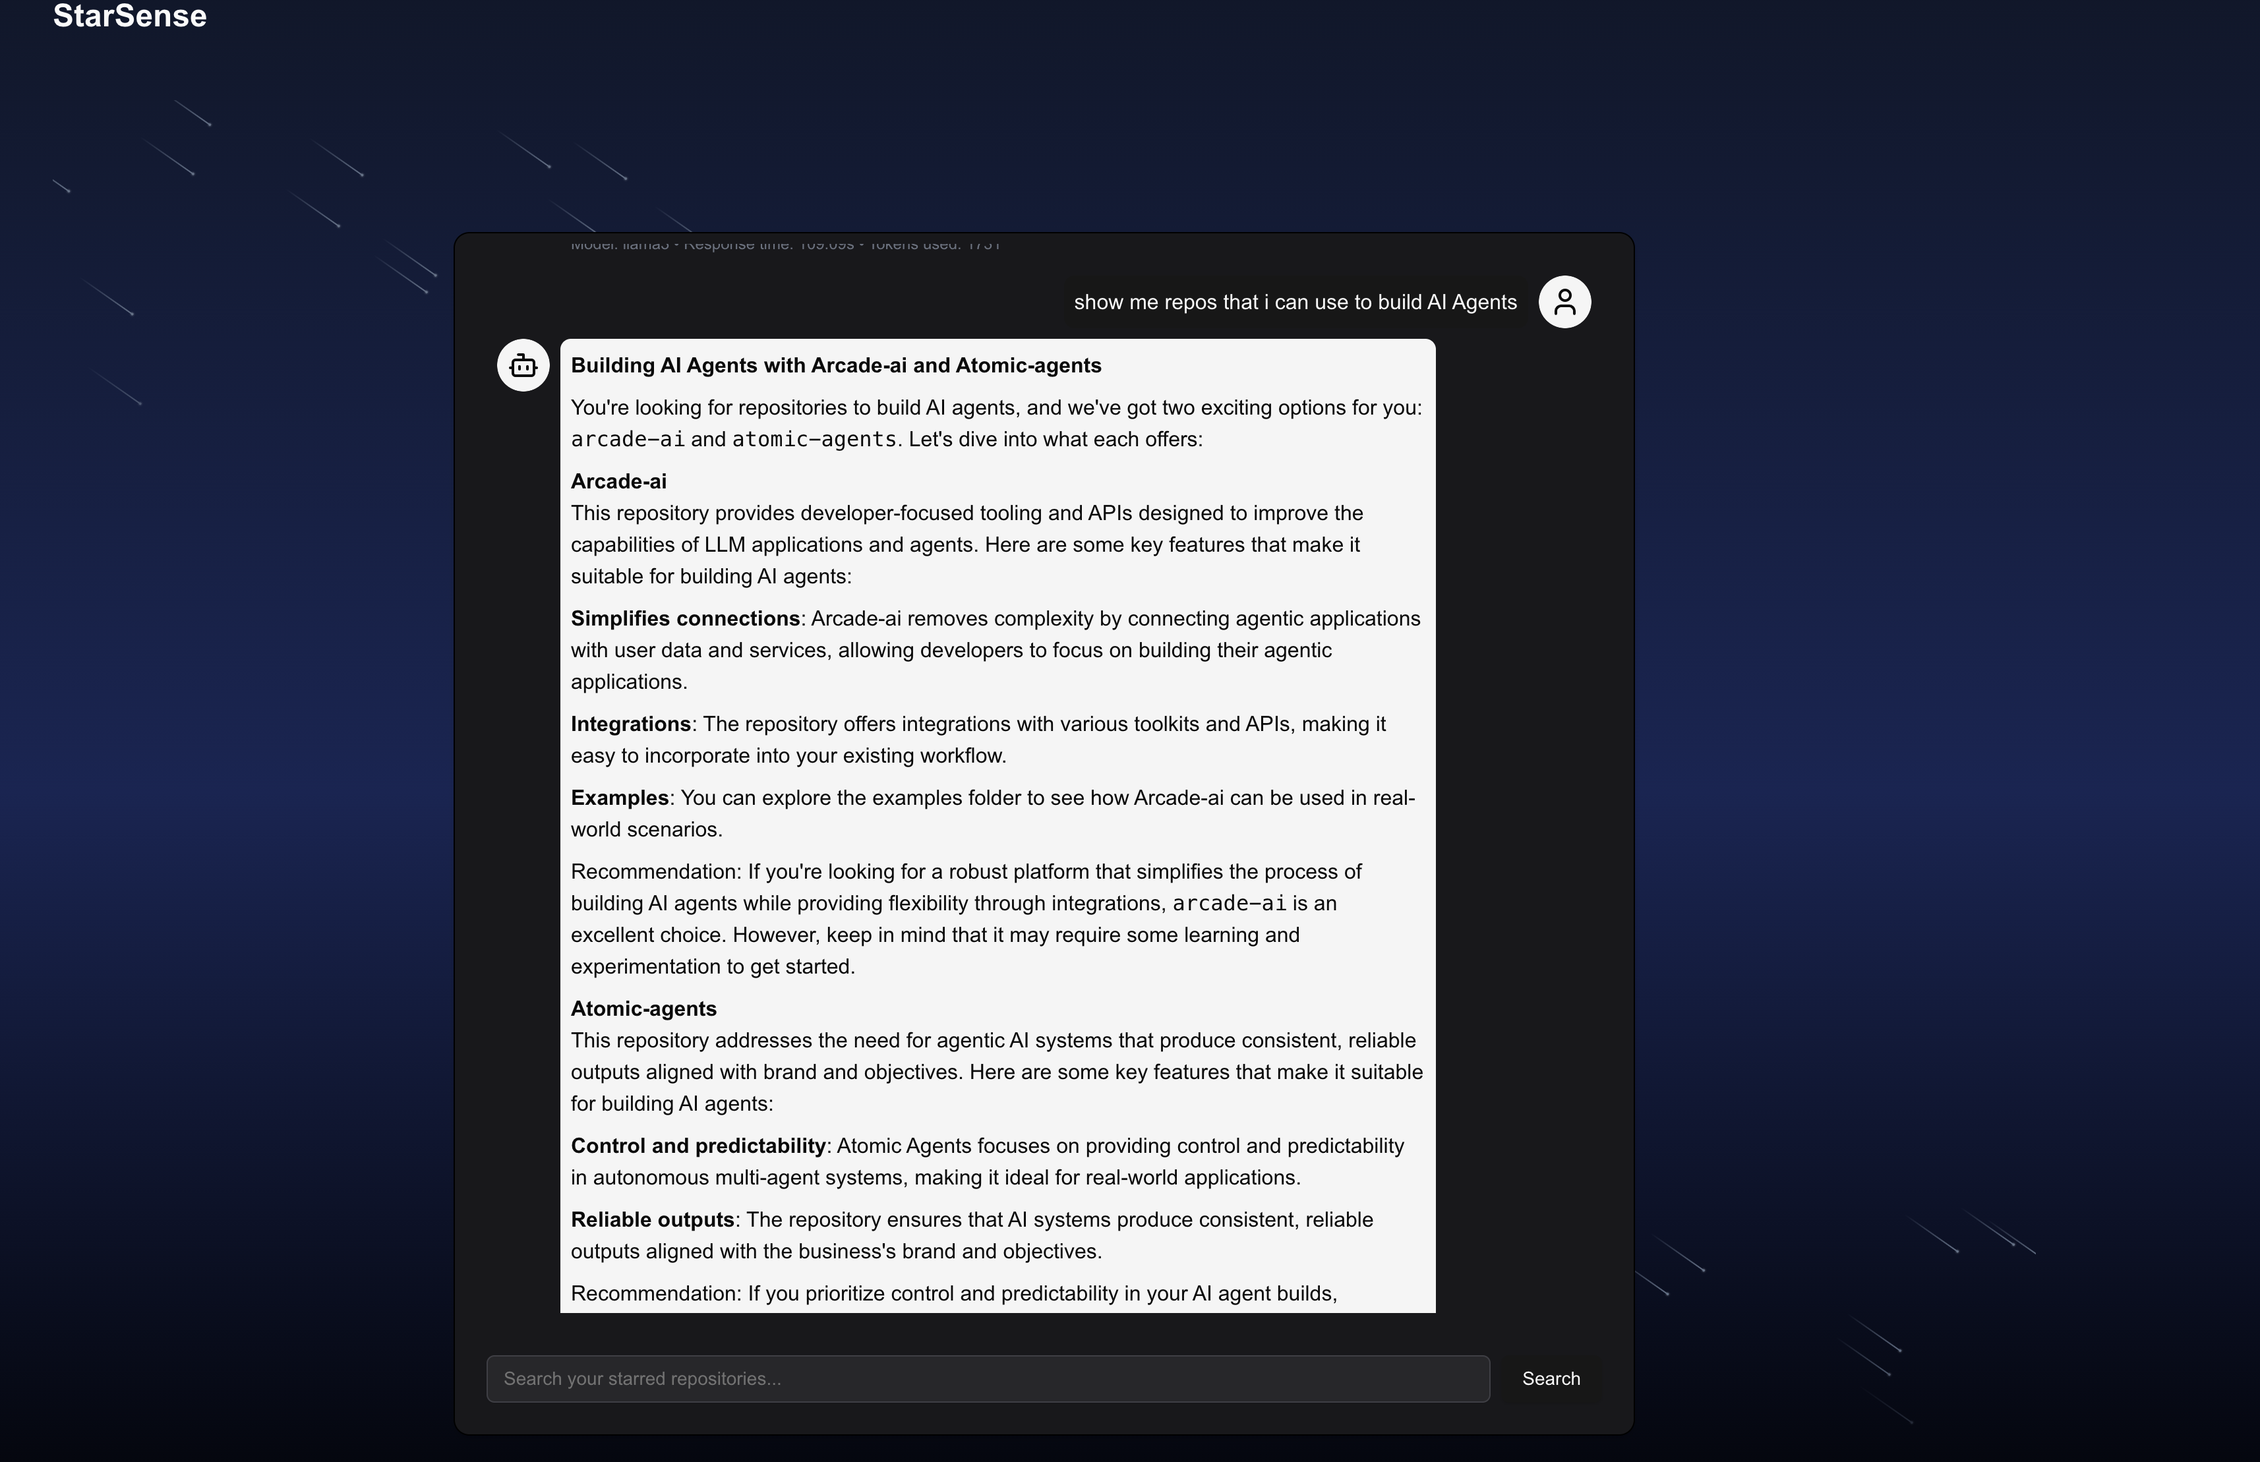
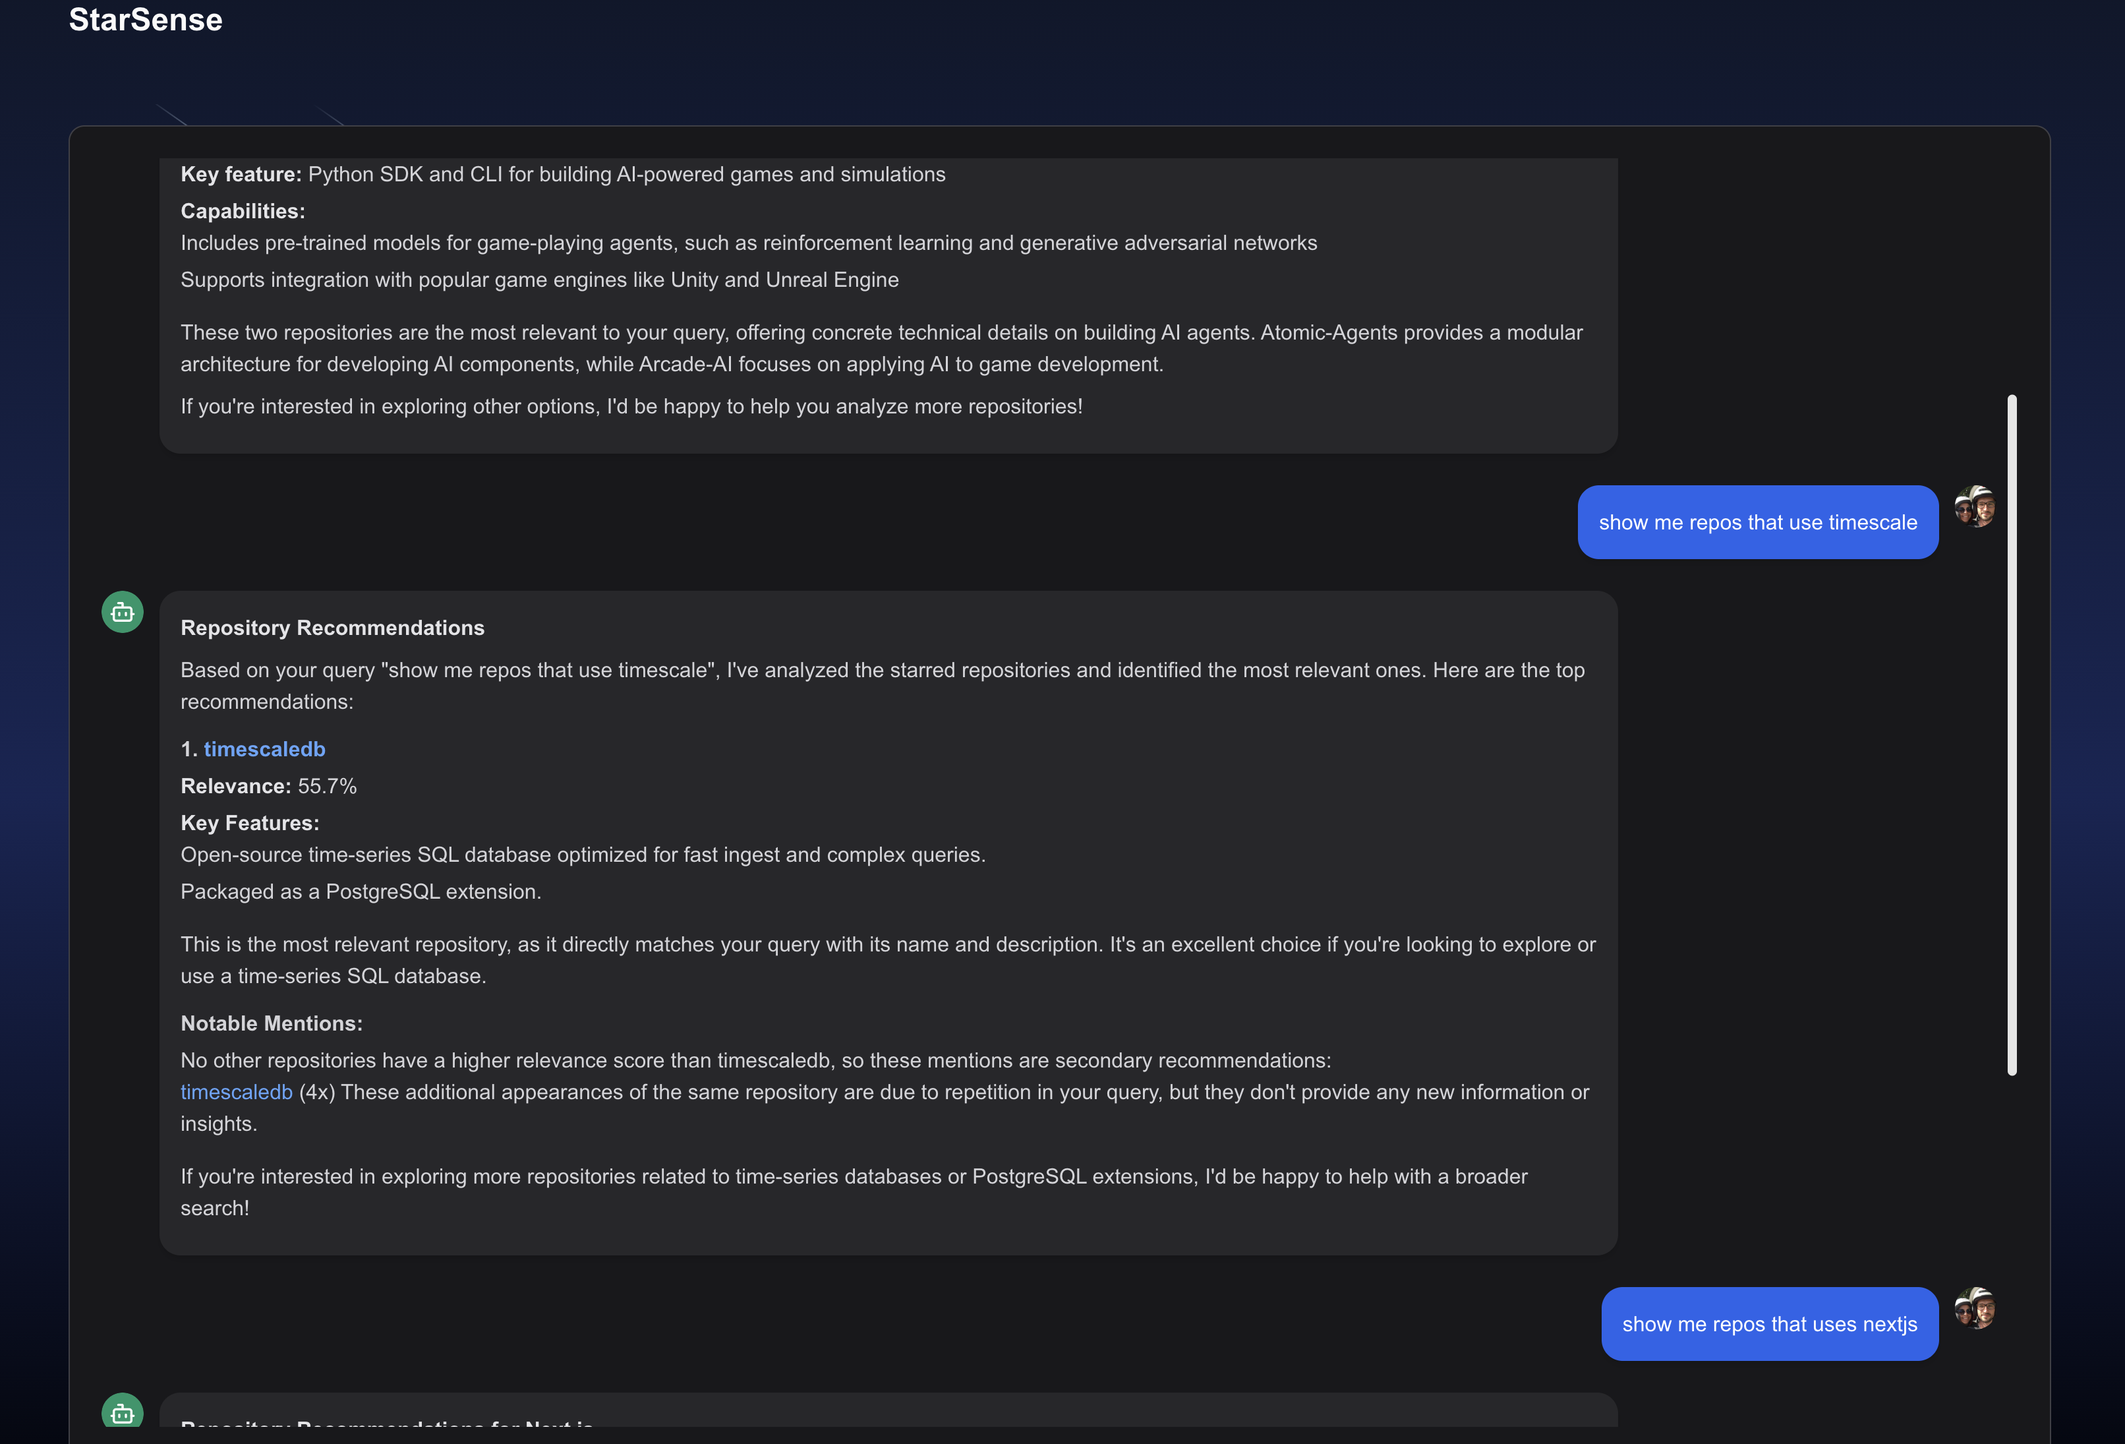
add environment example file, update chat page for user session, and refactor database query

diff --git a/web/app/chat/components/chat-window.tsx b/web/app/chat/components/chat-window.tsx
@@ -5,34 +5,34 @@ import { Button } from "@/components/ui/button";
 import { Card, CardContent, CardFooter } from "@/components/ui/card";
 import { Input } from "@/components/ui/input";
 import { ScrollArea } from "@/components/ui/scroll-area";
-import { Bot, User } from "lucide-react";
-import { useState } from "react";
+import { AvatarImage } from "@radix-ui/react-avatar";
+import { Bot, Loader2, Send, User } from "lucide-react";
+import { useEffect, useRef, useState } from "react";
 import ReactMarkdown from "react-markdown";
 
 type Message = {
   user?: string;
-  assistant?: {
-    message: {
-      assistant: string;
-    };
-    raw_response: {
-      model: string;
-      created_at: string;
-      total_duration: number;
-      prompt_eval_count: number;
-      eval_count: number;
-    };
-  };
+  assistant?: string;
 };
 
-export default function ChatWindow() {
+export default function ChatWindow({ user }: { user: any }) {
   const [chatHistory, setChatHistory] = useState<Message[]>([]);
   const [input, setInput] = useState("");
   const [isLoading, setIsLoading] = useState(false);
+  const scrollAreaRef = useRef<HTMLDivElement>(null);
+
+  // Auto scroll to bottom when new messages arrive
+  useEffect(() => {
+    if (scrollAreaRef.current) {
+      scrollAreaRef.current.scrollTop = scrollAreaRef.current.scrollHeight;
+    }
+  }, [chatHistory]);
 
   const handleSend = async () => {
     if (input.trim()) {
       setIsLoading(true);
+      // Add user message immediately
+      setChatHistory((prev) => [...prev, { user: input.trim() }]);
 
       try {
         const response = await fetch("http://localhost:8000/chat", {
@@ -50,18 +50,7 @@ export default function ChatWindow() {
         setChatHistory((prev) => [
           ...prev,
           {
-            assistant: {
-              message: {
-                assistant: "Sorry, there was an error processing your request.",
-              },
-              raw_response: {
-                model: "error",
-                created_at: new Date().toISOString(),
-                total_duration: 0,
-                prompt_eval_count: 0,
-                eval_count: 0,
-              },
-            },
+            assistant: "Sorry, there was an error processing your request.",
           },
         ]);
       } finally {
@@ -71,108 +60,149 @@ export default function ChatWindow() {
     }
   };
 
-  const getMetadata = (message: Message) => {
-    if (!message.assistant) return null;
-    const { model, total_duration, prompt_eval_count, eval_count } =
-      message.assistant.raw_response;
-    return {
-      model,
-      duration: (total_duration / 1e9).toFixed(2), // Convert nanoseconds to seconds
-      totalTokens: prompt_eval_count + eval_count,
-    };
-  };
-
   return (
-    <Card className="w-full max-w-4xl mx-auto h-[calc(100vh-200px)] border-black shadow-md flex flex-col bg-zinc-900">
-      <CardContent className="flex-grow overflow-hidden">
-        <ScrollArea className="h-full p-2">
-          {chatHistory.map((message, index) => (
-            <div key={index} className="mb-4">
-              {message.user && (
-                <div className="flex items-start space-x-2 justify-end mb-2">
-                  <div className="p-2 rounded-lg max-w-[80%] bg-primary text-primary-foreground">
-                    <ReactMarkdown>{message.user}</ReactMarkdown>
-                  </div>
-                  <Avatar>
-                    <AvatarFallback>
-                      <User size={24} />
-                    </AvatarFallback>
-                  </Avatar>
-                </div>
-              )}
-              {message.assistant && (
-                <div className="flex items-start space-x-2 justify-start">
-                  <Avatar>
-                    <AvatarFallback>
-                      <Bot size={24} />
-                    </AvatarFallback>
-                  </Avatar>
-                  <div className="space-y-1 max-w-[80%]">
-                    <div className="p-2 rounded-lg bg-muted">
-                      <ReactMarkdown
-                        components={{
-                          h2: ({ node, ...props }) => (
-                            <h2
-                              className="text-lg font-bold mt-4 mb-2"
-                              {...props}
-                            />
-                          ),
-                          a: ({ node, ...props }) => (
-                            <a
-                              className="text-blue-500 hover:underline"
-                              target="_blank"
-                              rel="noopener noreferrer"
-                              {...props}
-                            />
-                          ),
-                          p: ({ node, ...props }) => (
-                            <p className="mb-2" {...props} />
-                          ),
-                          li: ({ node, ...props }) => (
-                            <li className="mb-2" {...props} />
-                          ),
-                          strong: ({ node, ...props }) => (
-                            <strong className="font-semibold" {...props} />
-                          ),
-                          em: ({ node, ...props }) => (
-                            <em className="text-gray-500" {...props} />
-                          ),
-                        }}
-                      >
-                        {message.assistant.message.assistant}
-                      </ReactMarkdown>
-                    </div>
-                    {getMetadata(message) && (
-                      <div className="text-xs text-gray-500 pl-2">
-                        Model: {getMetadata(message)?.model} • Response time:{" "}
-                        {getMetadata(message)?.duration}s • Tokens used:{" "}
-                        {getMetadata(message)?.totalTokens}
+    <Card className="w-full max-w-6xl mx-auto h-[calc(100vh-82px)] border-zinc-700 shadow-xl flex flex-col bg-zinc-900">
+      <CardContent className="flex-grow overflow-hidden p-6">
+        <ScrollArea className="h-full pr-4" ref={scrollAreaRef}>
+          <div className="space-y-6">
+            {chatHistory.map((message, index) => (
+              <div key={index} className="space-y-6">
+                {message.user && (
+                  <div className="flex items-start justify-end">
+                    <div className="flex items-start space-x-3 max-w-[80%]">
+                      <div className="p-4 rounded-2xl bg-blue-600 text-white shadow-md">
+                        <ReactMarkdown className="prose prose-invert">
+                          {message.user}
+                        </ReactMarkdown>
                       </div>
-                    )}
+                      <Avatar className="h-8 w-8 flex-shrink-0">
+                        <AvatarImage src={user?.image} alt="User" />
+                        <AvatarFallback className="bg-blue-600 text-white">
+                          <User size={20} />
+                        </AvatarFallback>
+                      </Avatar>
+                    </div>
+                  </div>
+                )}
+                {message.assistant && (
+                  <div className="flex items-start justify-start">
+                    <div className="flex items-start space-x-3 max-w-[80%]">
+                      <Avatar className="h-8 w-8 flex-shrink-0">
+                        <AvatarFallback className="bg-emerald-600 text-white">
+                          <Bot size={20} />
+                        </AvatarFallback>
+                      </Avatar>
+                      <div className="space-y-1">
+                        <div className="p-4 rounded-2xl bg-zinc-800 shadow-md">
+                          <ReactMarkdown
+                            className="prose prose-invert max-w-none"
+                            components={{
+                              h2: ({ ...props }) => (
+                                <h2
+                                  className="text-lg font-bold mt-4 mb-2 text-zinc-200"
+                                  {...props}
+                                />
+                              ),
+                              h3: ({ ...props }) => (
+                                <h3
+                                  className="text-base font-semibold mt-3 mb-1 text-zinc-300"
+                                  {...props}
+                                />
+                              ),
+                              a: ({ ...props }) => (
+                                <a
+                                  className="text-blue-400 hover:text-blue-300 hover:underline"
+                                  target="_blank"
+                                  rel="noopener noreferrer"
+                                  {...props}
+                                />
+                              ),
+                              p: ({ ...props }) => (
+                                <p className="mb-2 text-zinc-300" {...props} />
+                              ),
+                              ul: ({ ...props }) => (
+                                <ul className="space-y-1 mb-4" {...props} />
+                              ),
+                              li: ({ ...props }) => (
+                                <li className="text-zinc-300" {...props} />
+                              ),
+                              strong: ({ ...props }) => (
+                                <strong
+                                  className="font-semibold text-zinc-200"
+                                  {...props}
+                                />
+                              ),
+                              em: ({ ...props }) => (
+                                <em className="text-zinc-400" {...props} />
+                              ),
+                            }}
+                          >
+                            {message.assistant}
+                          </ReactMarkdown>
+                        </div>
+                      </div>
+                    </div>
+                  </div>
+                )}
+              </div>
+            ))}
+
+            {/* Loading spinner */}
+            {isLoading && (
+              <div className="flex items-start justify-start">
+                <div className="flex items-start space-x-3 max-w-[80%]">
+                  <Avatar className="h-8 w-8 flex-shrink-0">
+                    <AvatarFallback className="bg-emerald-600 text-white">
+                      <Bot size={20} />
+                    </AvatarFallback>
+                  </Avatar>
+                  <div className="space-y-1">
+                    <div className="p-4 rounded-2xl bg-zinc-800 shadow-md">
+                      <div className="flex items-center space-x-2">
+                        <Loader2 className="h-4 w-4 animate-spin text-zinc-400" />
+                        <span className="text-sm text-zinc-400">
+                          Searching repositories...
+                        </span>
+                      </div>
+                    </div>
                   </div>
                 </div>
-              )}
-            </div>
-          ))}
+              </div>
+            )}
+          </div>
         </ScrollArea>
       </CardContent>
-      <CardFooter>
+      <CardFooter className="p-4 bg-zinc-800 border-t border-zinc-700">
         <form
-          onSubmit={(e) => {
+          onSubmit={(e: React.FormEvent) => {
             e.preventDefault();
             handleSend();
           }}
-          className="flex w-full space-x-2"
+          className="flex w-full space-x-3"
         >
           <Input
             value={input}
             onChange={(e) => setInput(e.target.value)}
             placeholder="Search your starred repositories..."
-            className="flex-grow text-white placeholder-gray-400 bg-zinc-800 border-zinc-700"
+            className="flex-grow text-white placeholder-zinc-400 bg-zinc-900 border-zinc-700 focus:border-blue-500 focus:ring-1 focus:ring-blue-500"
             disabled={isLoading}
           />
-          <Button type="submit" disabled={isLoading}>
-            {isLoading ? "Searching..." : "Search"}
+          <Button
+            type="submit"
+            disabled={isLoading}
+            className="bg-blue-600 hover:bg-blue-500 text-white px-6"
+          >
+            {isLoading ? (
+              <div className="flex items-center space-x-2">
+                <Loader2 className="h-4 w-4 animate-spin" />
+                <span>Searching...</span>
+              </div>
+            ) : (
+              <div className="flex items-center space-x-2">
+                <span>Send</span>
+                <Send size={16} />
+              </div>
+            )}
           </Button>
         </form>
       </CardFooter>

diff --git a/web/app/chat/page.tsx b/web/app/chat/page.tsx
@@ -1,7 +1,11 @@
+import { auth } from "@/auth";
 import { Meteors } from "@/components/ui/meteors";
 import ChatWindow from "./components/chat-window";
 
-export default function Home() {
+export default async function Home() {
+  const session = await auth();
+  console.log(session);
+  const user = session?.user;
   return (
     <div className="relative flex flex-col items-center justify-center min-h-screen overflow-hidden ">
       {/* Top left meteors */}
@@ -10,8 +14,8 @@ export default function Home() {
       </div>
 
       {/* Chat window */}
-      <div className="z-10 w-full max-w-4xl">
-        <ChatWindow />
+      <div className="z-10 w-full max-w-8xl">
+        <ChatWindow user={user} />
       </div>
 
       {/* Bottom right meteors */}

diff --git a/backend/db.py b/backend/db.py
@@ -68,6 +68,7 @@ def search_for_repos(query: str, limit: int = 5):
             cur.execute("""
                 WITH ranked_results AS (
                     SELECT 
+                        r.id,
                         r.name,
                         r.full_name,
                         r.description,
@@ -76,14 +77,14 @@ def search_for_repos(query: str, limit: int = 5):
                         res.distance
                     FROM (
                         SELECT 
-                            repository_id,
+                            id,
                             chunk,
                             embedding <=> ai.openai_embed('text-embedding-3-small', %s) as distance
                         FROM "public"."repositories_embedding_store"
                         ORDER BY distance
                         LIMIT %s
                     ) res
-                    JOIN repositories r ON r.id = res.repository_id
+                    JOIN repositories r ON r.id = res.id
                 )
                 SELECT 
                     CONCAT('name: ', name, ' url: ', url, ' content: ', description) as combined_text,

diff --git a/backend/server.py b/backend/server.py
@@ -93,7 +93,6 @@ async def chat(chat_message: ChatMessage):
             "user": user_message,
             "assistant": assistant_message
         })
-        logging.info("Updated chat history")
         
         return {
             "response": assistant_message,
